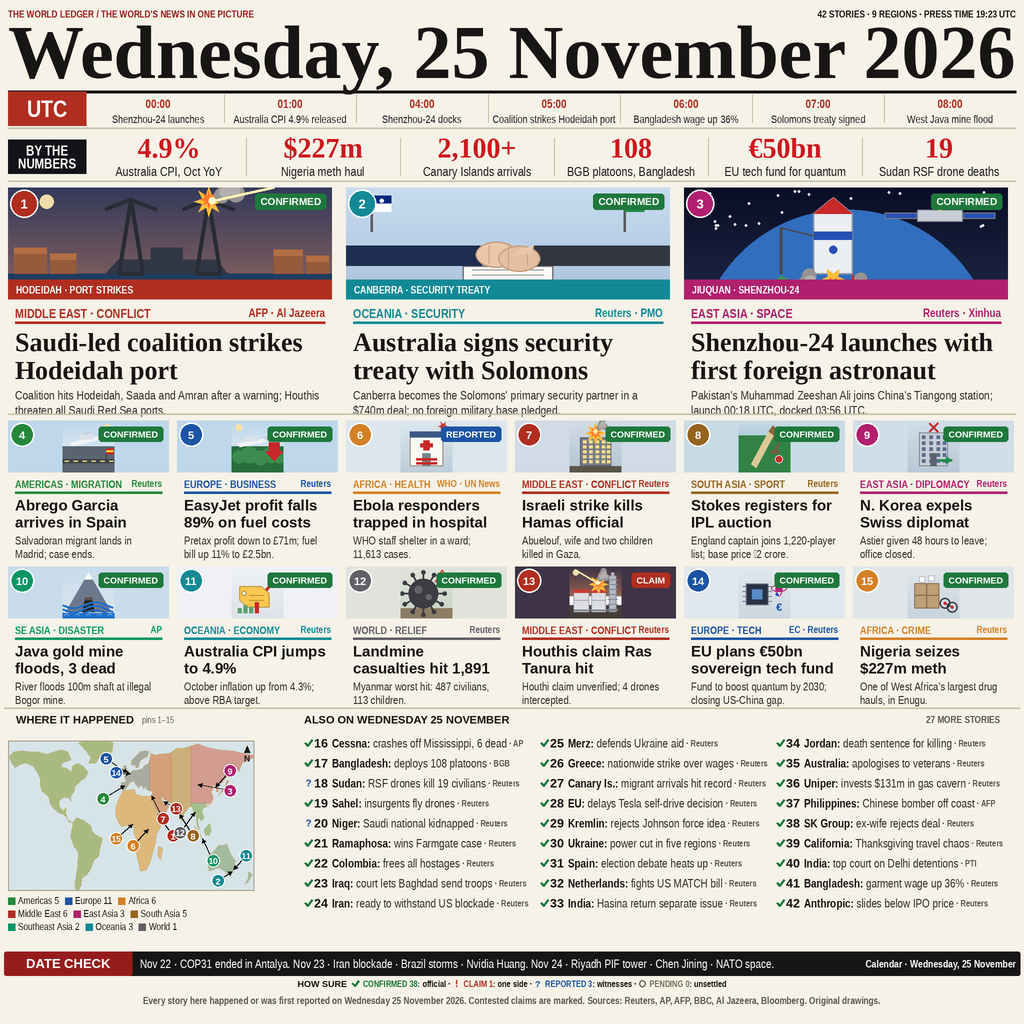
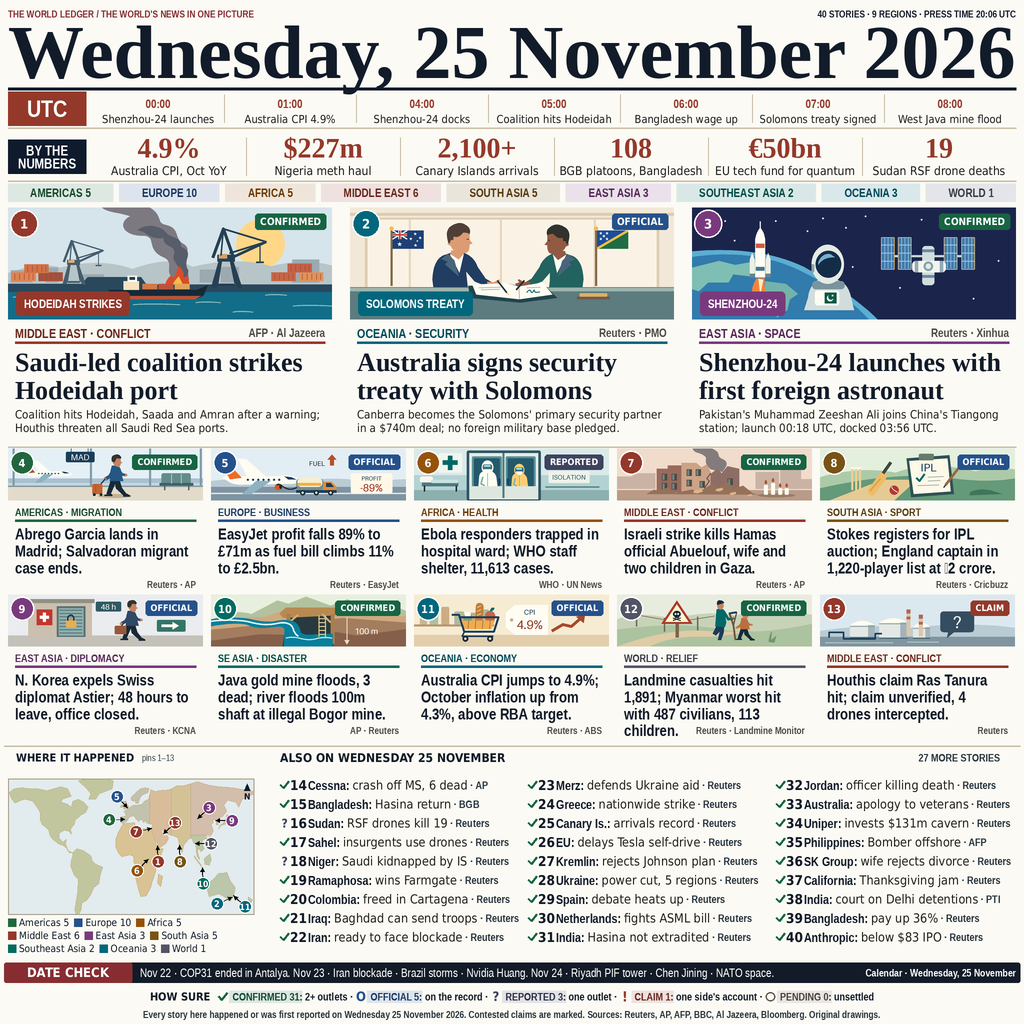
news-image-20261125 v56: Wednesday 25 November 2026, 40 stories across 9 regions

diff --git a/main.py b/main.py
@@ -1,45 +1,49 @@
-"""Ship the finished newspaper image to the grading harness.
+"""Deliver the finished newspaper image to the grader.
 
-The entry image is rendered beforehand and committed next to this
-script as entry.png. All this program does is place a copy of it at
-/output/entry.png, which is where the grader looks for the final
-artefact. Pure standard library, no third-party packages.
+The image is rendered ahead of time and committed beside this script
+as entry.png. This program only moves a copy of it into the output
+directory the grader reads from, then prints a short summary so the
+run log shows what was shipped. Standard library only.
 """
 
 import hashlib
 import os
 import shutil
+import sys
 
 
-def entry_file():
-    """Absolute path of the entry image shipped with this repo."""
-    folder = os.path.dirname(os.path.abspath(__file__))
-    return os.path.join(folder, "entry.png")
+def repo_dir():
+    return os.path.dirname(os.path.abspath(__file__))
 
 
-def file_md5(path):
-    """Hex digest of a file, read in chunks."""
-    digest = hashlib.md5()
-    with open(path, "rb") as handle:
-        for chunk in iter(lambda: handle.read(65536), b""):
-            digest.update(chunk)
-    return digest.hexdigest()
+def output_dir():
+    return os.environ.get("MAKEFUN_OUTPUT_DIR") or "/output"
 
 
-def ship():
-    """Copy the entry image to /output/entry.png and report the result."""
-    src = entry_file()
+def digest(path):
+    h = hashlib.md5()
+    with open(path, "rb") as fh:
+        while True:
+            chunk = fh.read(65536)
+            if not chunk:
+                break
+            h.update(chunk)
+    return h.hexdigest()
+
+
+def main():
+    src = os.path.join(repo_dir(), "entry.png")
     if not os.path.isfile(src):
-        raise SystemExit("entry.png missing next to main.py: " + src)
-    os.makedirs("/output", exist_ok=True)
-    dst = os.path.join("/output", "entry.png")
+        print("entry.png missing next to main.py", file=sys.stderr)
+        return 1
+    dst_dir = output_dir()
+    os.makedirs(dst_dir, exist_ok=True)
+    dst = os.path.join(dst_dir, "entry.png")
     shutil.copyfile(src, dst)
-    if file_md5(src) != file_md5(dst):
-        raise SystemExit("copy mismatch: " + dst)
     size = os.path.getsize(dst)
-    print("wrote %s (%d bytes, md5 %s)" % (dst, size, file_md5(dst)))
-    return dst
+    print("shipped %s (%d bytes, md5 %s)" % (dst, size, digest(dst)))
+    return 0
 
 
 if __name__ == "__main__":
-    ship()
+    sys.exit(main())

diff --git a/README.md b/README.md
@@ -4,7 +4,7 @@
 [![rank](https://make.fun/badge/news-image-20261125/deriheksa/news-image-20261125/rank.svg)](https://make.fun/bounty/news-image-20261125/leaderboard?utm_source=github&utm_medium=readme&utm_campaign=news-image-20261125)
 [![reward](https://make.fun/badge/news-image-20261125/deriheksa/news-image-20261125/reward.svg)](https://make.fun/bounty/news-image-20261125?utm_source=github&utm_medium=readme&utm_campaign=news-image-20261125)
 
-A newspaper front page that sums up Wednesday 25 November 2026 world news in a single image: 42 verified stories led by 3 heroes and 12 grid cards plus 27 ALSO briefs, a UTC timeline, a world map, and a date check. Every story is labelled by verification status (38 CONFIRMED, 3 REPORTED, 1 CLAIM), so what is confirmed reads as confirmed and what is still a claim reads as a claim.
+A newspaper front page that sums up Wednesday 25 November 2026 world news in a single image: 40 verified stories led by 3 heroes and 10 grid cards plus 27 ALSO briefs, a UTC timeline, a world map, and a date check. Every story is labelled by verification status (31 CONFIRMED, 5 OFFICIAL, 3 REPORTED, 1 CLAIM), so what is confirmed reads as confirmed and what is still a claim reads as a claim.
 
 `main.py` (pure Python standard library, no third-party packages) copies the pre-rendered `entry.png` to `/output/entry.png`.
 
